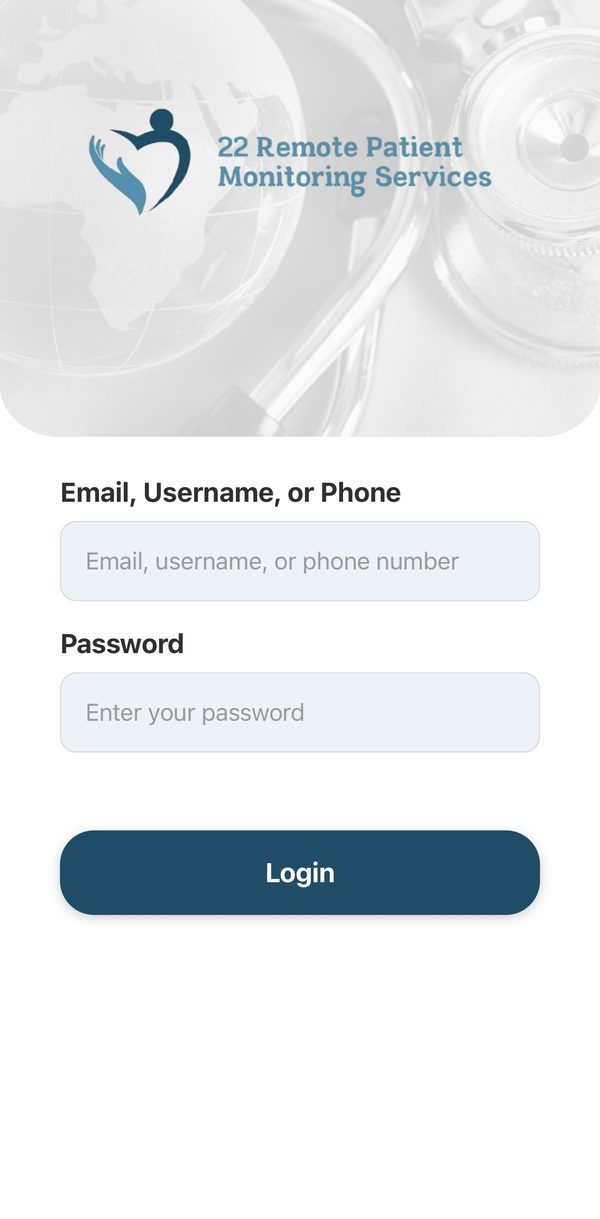
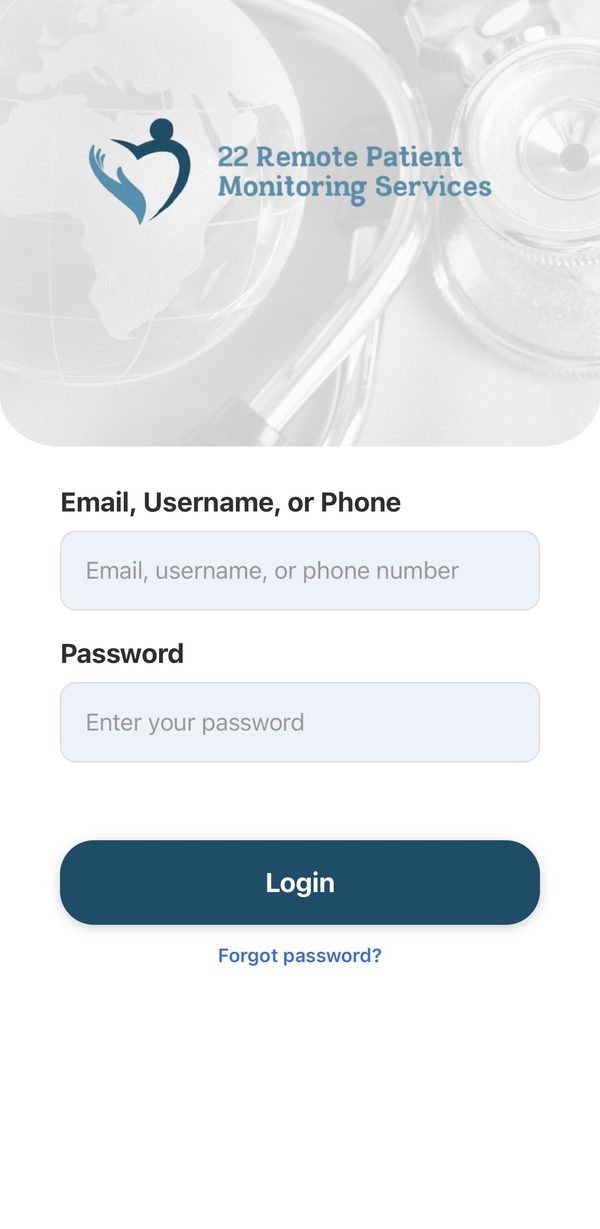
draft: Forgot password in Step 2; re-shot login screenshot from 1.0.51
1.0.51 adds a "Forgot password?" link under the Login button. The old
01-login.jpg predated it, so the guide could not point at the picture.

- 01-login.jpg re-shot on 1.0.51 (600x1229 derivative, alt text and height
  updated in both languages).
- Step 2 gains a short note in English and Spanish: tap "Forgot password?",
  the blue words under the Login button in the picture above, and follow the
  prompts.

Print: EN 5 pages, ES 6 — unchanged.

DRAFT: still carries review boxes; Spanish still needs native-speaker clinical
review. Do not merge to main as-is.

diff --git a/iphone/es/index.html b/iphone/es/index.html
@@ -230,8 +230,8 @@
                 <img
                   src="../../assets/ios-01-login.jpg"
                   width="600"
-                  height="1219"
-                  alt="Pantalla de inicio de sesión de la aplicación, con una casilla que dice Email, Username, or Phone y otra para la contraseña, sobre un botón de Login."
+                  height="1229"
+                  alt="Pantalla de inicio de sesión de la aplicación, con una casilla que dice Email, Username, or Phone y otra para la contraseña, sobre un botón de Login, y debajo un enlace que dice Forgot password?."
                 />
                 <figcaption class="cap">
                   <strong>Pantalla de inicio de sesión</strong>Escriba aquí su correo,
@@ -250,6 +250,17 @@
                   su correo o de sus mensajes de texto
                 </figcaption>
               </figure>
+            </div>
+
+            <div class="note note--tip">
+              <span class="ico" aria-hidden="true">🔑</span>
+              <p>
+                <strong>¿No recuerda su contraseña?</strong> Toque
+                <strong>&ldquo;Forgot password?&rdquo;</strong> (¿Olvidó su contraseña?):
+                son las letras azules que están justo debajo del botón
+                <strong>&ldquo;Login&rdquo;</strong> en la foto de arriba. Después siga los
+                pasos que aparecen en la pantalla.
+              </p>
             </div>
 
             <div class="note note--warn">

diff --git a/iphone/en/index.html b/iphone/en/index.html
@@ -165,8 +165,8 @@
                 <img
                   src="../../assets/ios-01-login.jpg"
                   width="600"
-                  height="1219"
-                  alt="The app login screen, with a box labeled Email, Username, or Phone and a Password box above a Login button."
+                  height="1229"
+                  alt="The app login screen, with a box labeled Email, Username, or Phone and a Password box above a Login button, and a Forgot password? link underneath."
                 />
                 <figcaption class="cap">
                   <strong>Login screen</strong>Type your email, username, or phone number
@@ -184,6 +184,16 @@
                   or text messages
                 </figcaption>
               </figure>
+            </div>
+
+            <div class="note note--tip">
+              <span class="ico" aria-hidden="true">🔑</span>
+              <p>
+                <strong>Can't remember your password?</strong> Tap
+                <strong>&ldquo;Forgot password?&rdquo;</strong> — the blue words just
+                under the <strong>Login</strong> button in the picture above — and follow
+                the steps on the screen.
+              </p>
             </div>
 
             <div class="note note--warn">
